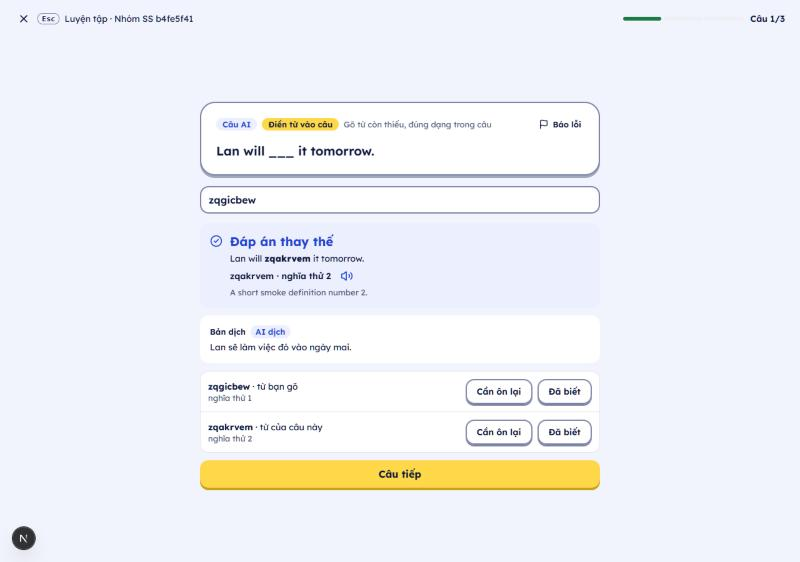
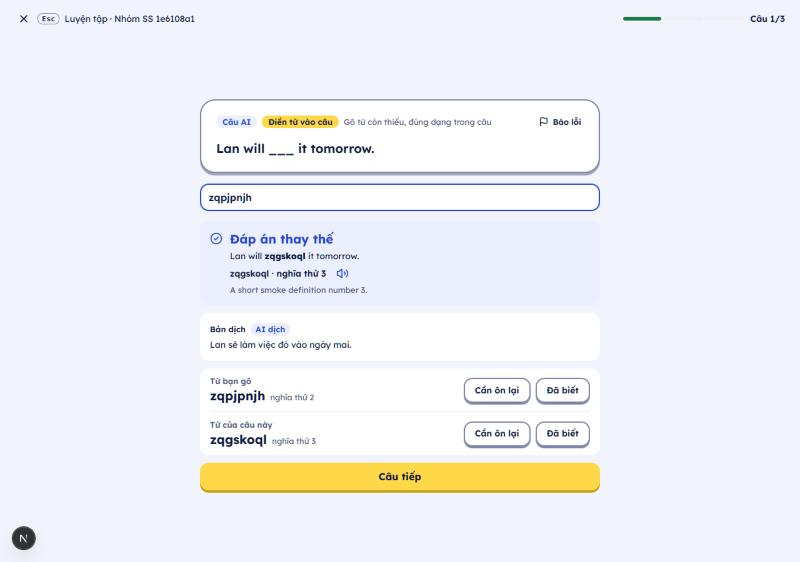
feat(web): drop the session-word line and polish the alternative card
A try-again for an undeclared session word now says only Chưa đúng (owner, 07/11/2026). Each row of the alternative card names its role as a label above the word and loses its border; the summary's alternatives count moves into the Đúng tile.

diff --git a/apps/web/src/features/learner/practice/session/ai-questions.test.tsx b/apps/web/src/features/learner/practice/session/ai-questions.test.tsx
@@ -160,11 +160,13 @@ describe('AI question types (K/78a–K/81)', () => {
       await userEvent.click(screen.getByRole('button', { name: /Kiểm tra/ }));
     };
 
-    it('CS3: a session-word try-again says it is another word from this session, not the spelling text', async () => {
+    it('CS3: a session-word try-again says only "Chưa đúng": no line under it, not the spelling text (owner, 07/11/2026)', async () => {
       await typeAndCheck({ result: 'try_again', tries: 1, reason: 'session_word' });
-      expect(await screen.findByText('Đây là một từ khác trong phiên này. Gõ lại.')).toBeInTheDocument();
+      // Once on the page and once in the live region for screen readers.
+      expect(await screen.findAllByText('Chưa đúng')).toHaveLength(2);
+      expect(screen.queryByText(/một từ khác trong phiên/)).not.toBeInTheDocument();
       expect(screen.queryByText(/Kiểm tra chính tả/)).not.toBeInTheDocument();
-      expect(document.querySelector('[data-live="result"]')).toHaveTextContent('Đây là một từ khác trong phiên này. Gõ lại.');
+      expect(document.querySelector('[data-live="result"]')).toHaveTextContent(/^Chưa đúng$/);
     });
 
     it('CS4: a try-again with reason null keeps the spelling text', async () => {
@@ -185,7 +187,9 @@ describe('AI question types (K/78a–K/81)', () => {
       await screen.findByText('We use Docker to ___ the app to the production server.');
       await userEvent.type(screen.getByRole('textbox'), 'habit');
       await userEvent.click(screen.getByRole('button', { name: /Check/ }));
-      expect(await screen.findByText("That's another word from this session. Try again.")).toBeInTheDocument();
+      expect(await screen.findAllByText('Not quite')).toHaveLength(2);
+      expect(screen.queryByText(/another word from this session/)).not.toBeInTheDocument();
+      expect(screen.queryByText(/Check the spelling/)).not.toBeInTheDocument();
     });
   });
 
@@ -281,8 +285,11 @@ describe('Alternative answer card', () => {
     expect(screen.getByText('Giấc ngủ rất quan trọng cho sức khỏe.')).toBeInTheDocument();
     const items = within(screen.getByRole('list')).getAllByRole('listitem');
     expect(items).toHaveLength(2);
-    expect(items[0]).toHaveTextContent('crucial · từ bạn gõ');
-    expect(items[1]).toHaveTextContent('vital · từ của câu này');
+    // Each row names its role as its own label above the word (UI polish, 07/11/2026).
+    expect(within(items[0]).getByText('Từ bạn gõ')).toBeInTheDocument();
+    expect(within(items[0]).getByText('crucial')).toBeInTheDocument();
+    expect(within(items[1]).getByText('Từ của câu này')).toBeInTheDocument();
+    expect(within(items[1]).getByText('vital')).toBeInTheDocument();
     expect(screen.getByRole('button', { name: 'Đã biết: crucial' })).toBeInTheDocument();
     expect(screen.getByRole('button', { name: 'Cần ôn lại: crucial' })).toBeInTheDocument();
     expect(screen.getByRole('button', { name: 'Cần ôn lại: vital' })).toBeInTheDocument();
@@ -374,8 +381,8 @@ describe('Alternative answer card', () => {
     await userEvent.click(screen.getByRole('button', { name: /Check/ }));
     expect(await screen.findByText('Alternative answer')).toBeInTheDocument();
     const items = within(screen.getByRole('list')).getAllByRole('listitem');
-    expect(items[0]).toHaveTextContent('crucial · the word you typed');
-    expect(items[1]).toHaveTextContent("vital · this sentence's word");
+    expect(within(items[0]).getByText('The word you typed')).toBeInTheDocument();
+    expect(within(items[1]).getByText("This sentence's word")).toBeInTheDocument();
     expect(screen.getByRole('button', { name: 'Know: crucial' })).toBeInTheDocument();
     expect(screen.getByRole('button', { name: 'Still learning: vital' })).toBeInTheDocument();
   });

diff --git a/apps/web/src/features/learner/practice/session/AlternativeFeedback.tsx b/apps/web/src/features/learner/practice/session/AlternativeFeedback.tsx
@@ -32,7 +32,7 @@ export function AlternativeFeedback({ result, sentence, onReviewWord, onNext, bu
         <CircleCheck aria-hidden className="mt-0.5 size-5 shrink-0 text-primary" />
         <div className="flex min-w-0 flex-col gap-1">
           <p className="text-title font-bold text-primary">{t('alternativeLabel')}</p>
-          <p className="break-words text-ui text-ink">
+          <p className="break-words text-pretty text-ui text-ink">
             {before}
             <strong className="font-extrabold">{result.correct.text}</strong>
             {after}
@@ -55,18 +55,19 @@ export function AlternativeFeedback({ result, sentence, onReviewWord, onNext, bu
           <p className="break-words text-ui text-ink">{result.translation}</p>
         </div>
       )}
-      <ul className="flex flex-col divide-y divide-border rounded-inner border border-border bg-surface">
+      {/* Same flat surface as the translation above: no border, so the card reads as one piece (UI polish, 07/11/2026). */}
+      <ul className="flex flex-col divide-y divide-border rounded-inner bg-surface px-4">
         {rows.map((row) => (
-          <li key={row.sense_id} className="flex flex-col gap-2 p-3 sm:flex-row sm:items-center sm:justify-between">
-            <div className="flex min-w-0 flex-col">
-              <p className="break-words text-ui text-ink">
-                <span className="font-bold">{row.lemma}</span>
-                {` · ${row.role === 'typed' ? t('alternativeTyped') : t('alternativeAsked')}`}
+          <li key={row.sense_id} className="flex flex-col gap-2 py-3 sm:flex-row sm:items-center sm:justify-between sm:gap-4">
+            <div className="flex min-w-0 flex-col gap-0.5">
+              <p className="text-caption font-semibold text-muted">{row.role === 'typed' ? t('alternativeTyped') : t('alternativeAsked')}</p>
+              <p className="flex min-w-0 flex-wrap items-baseline gap-x-2">
+                <span className="break-words text-title font-bold text-ink">{row.lemma}</span>
+                <span className="break-words text-caption text-muted">{row.meaning}</span>
               </p>
-              <p className="break-words text-caption text-muted">{row.meaning}</p>
             </div>
             {row.action === null ? (
-              <div className="flex flex-wrap gap-2">
+              <div className="flex shrink-0 flex-wrap gap-2">
                 <Button variant="quiet" aria-label={t('reviewWord', { lemma: row.lemma })} isDisabled={busy} onPress={() => onReviewWord(row.sense_id, 'needs_review')}>
                   {t('stillLearning')}
                 </Button>
@@ -77,7 +78,7 @@ export function AlternativeFeedback({ result, sentence, onReviewWord, onNext, bu
                 )}
               </div>
             ) : (
-              <p className="flex items-center gap-1 text-caption font-semibold text-ink">
+              <p className="flex shrink-0 items-center gap-1 text-caption font-semibold text-ink">
                 <Check aria-hidden className="size-4 text-success" />
                 {row.action === 'known' ? t('know') : t('summary.added')}
               </p>

diff --git a/apps/web/src/features/learner/practice/session/SessionSummary.tsx b/apps/web/src/features/learner/practice/session/SessionSummary.tsx
@@ -105,9 +105,11 @@ export function SessionSummary({ session, sourceLabel }: { session: PracticeSess
       </div>
       {data && (
         <dl className="grid grid-cols-2 gap-3">
-          <div className={`flex flex-col-reverse rounded-card bg-surface p-4 ${STAGGER[1]}`}>
-            <dt className="text-caption text-muted">{ts('correct')}</dt>
-            <dd className="text-h3 font-extrabold text-success">{data.correct}</dd>
+          <div className={`flex flex-col rounded-card bg-surface p-4 ${STAGGER[1]}`}>
+            <dt className="order-2 text-caption text-muted">{ts('correct')}</dt>
+            <dd className="order-1 text-h3 font-extrabold text-success">{data.correct}</dd>
+            {/* The alternatives belong to the right-answer count, so they sit in its tile (UI polish, 07/11/2026). */}
+            {(data.alternatives ?? 0) > 0 && <dd className="order-3 mt-1 text-caption font-semibold text-ink">{ts('alternatives', { count: data.alternatives ?? 0 })}</dd>}
           </div>
           <div className={`flex flex-col-reverse rounded-card bg-surface p-4 ${STAGGER[2]}`}>
             <dt className="text-caption text-muted">{ts('wrong')}</dt>
@@ -115,7 +117,6 @@ export function SessionSummary({ session, sourceLabel }: { session: PracticeSess
           </div>
         </dl>
       )}
-      {data && (data.alternatives ?? 0) > 0 && <p className="text-caption text-muted">{ts('alternatives', { count: data.alternatives ?? 0 })}</p>}
       {data && data.words.length > 0 && (
         <section className={`flex flex-col gap-2 rounded-card bg-surface p-4 ${STAGGER[3]}`}>
           <div className="flex flex-wrap items-center justify-between gap-2">

diff --git a/apps/web/src/features/learner/practice/session/PracticeSession.tsx b/apps/web/src/features/learner/practice/session/PracticeSession.tsx
@@ -249,7 +249,7 @@ function Question({ state, item, onReport }: { state: PracticeSessionState; item
   // One live region from the start of the question, so screen readers hear the result (audit 26/10/2026 #8).
   const announce = final
     ? `${final.result.alternative ? t('alternativeLabel') : final.result.result === 'correct' ? t('right') : t('wrong')}. ${t('revealLine', { lemma: final.result.correct.lemma, meaning: final.result.meaning })}`
-    : outcome?.kind === 'try_again' ? (outcome.reason === 'session_word' ? `${t('wrong')}. ${t('sessionWordBody')}` : t('wrong')) : '';
+    : outcome?.kind === 'try_again' ? t('wrong') : '';
 
   return (
     <div className="flex flex-col gap-4">
@@ -281,7 +281,8 @@ function Question({ state, item, onReport }: { state: PracticeSessionState; item
         <>
           <div data-feedback className="flex flex-col gap-0.5 rounded-inner bg-danger-soft p-4 motion-safe:animate-feedback-in">
             <p className="text-title font-bold text-danger">{t('wrong')}</p>
-            <p className="text-ui font-semibold text-ink">{outcome.reason === 'session_word' ? t('sessionWordBody') : t('tryAgainBody')}</p>
+            {/* A session word is spelt right: the spelling text would mislead, and the owner wants no line instead (07/11/2026). */}
+            {outcome.reason !== 'session_word' && <p className="text-ui font-semibold text-ink">{t('tryAgainBody')}</p>}
           </div>
           <TryAgainActions
             onRetry={focusAnswer}

diff --git a/apps/web/src/features/learner/practice/session/practice-session.test.tsx b/apps/web/src/features/learner/practice/session/practice-session.test.tsx
@@ -691,7 +691,10 @@ describe('Summary of alternative answers', () => {
 
   it('CS9: the summary says how many right answers were alternative answers', async () => {
     await openSummary({ alternatives: 2 });
-    expect(await screen.findByText('Trong đó 2 đáp án thay thế')).toBeInTheDocument();
+    const line = await screen.findByText('Trong đó 2 đáp án thay thế');
+    // The line belongs to the right-answer count: it sits in the "Đúng" tile, not loose under both tiles (UI polish, 07/11/2026).
+    const right = screen.getAllByRole('term').find((term) => term.textContent === 'Đúng')!;
+    expect(right.parentElement).toContainElement(line);
   });
 
   it('CS9: nothing is said when there was none, or when an older API sends no count', async () => {

diff --git a/docs/superpowers/specs/2026-11-06-cloze-session-synonyms-design.md b/docs/superpowers/specs/2026-11-06-cloze-session-synonyms-design.md
@@ -68,7 +68,7 @@ the older `{ first_letter, length }` shape (`LegacyLetters` in `HintPanel.tsx`) 
 |---|---|---|
 | `vital` | Right | Today's "Right" screen, unchanged. |
 | `crucial` (in her session, declared) | **Alternative answer** | See 3.2. |
-| `habit` (in her session, not declared) | Try again | New message: "That's another word from this session. Try again." |
+| `habit` (in her session, not declared) | Try again | ~~New message: "That's another word from this session. Try again."~~ Only "Not quite", with no line under it (owner, 07/11/2026, after the build). |
 | `important` (not in her session) | Try again | Unchanged: "Not quite. Check the spelling and try again. The answer stays hidden." |
 
 **Order of matching a typed answer** (Practice, at grading):
@@ -407,7 +407,7 @@ with `accepted_answers: [vital]` and `also_accepted: [crucial]`.
 |---|---|---|
 | CS1 | When Lan types `vital` into the `vital` sentence, then she gets Right and today's card. | §3.1 |
 | CS2 | When Lan types `crucial` into the `vital` sentence, then she gets the "Alternative answer" card with a `crucial` row and a `vital` row, `crucial` gets a right answer in its stats and `vital` gets nothing. | D3–D6, §4.1 |
-| CS3 | When Lan types `habit` into the `vital` sentence, then she gets a try-again with "That's another word from this session. Try again." and no word gets credit. | D14 |
+| CS3 | When Lan types `habit` into the `vital` sentence, then she gets a try-again that says only "Not quite" (no spelling line; owner, 07/11/2026, replaced "That's another word from this session. Try again.") and no word gets credit. | D14 |
 | CS4 | When Lan types `important` into the `vital` sentence, then she gets today's "Not quite. Check the spelling and try again." | D1, D10 |
 | CS5 | When Lan presses Enter, `1` or `2` on the alternative card, then nothing changes and the card stays. | D7, R1 |
 | CS6 | When Lan presses Know in the `crucial` row, then only `crucial`'s schedule changes and the `vital` row's buttons stay available. | D6 |

diff --git a/docs/deliveries/session-synonyms.md b/docs/deliveries/session-synonyms.md
@@ -112,6 +112,15 @@ the design as written (§5.5, D13).
 - The learner web in dark mode, on a phone and in English; with a screen reader; or a web build from before this change against the new API.
 - A group deleted during a session, and the weak-word stats credit, have no smoke step.
 
+## Changed after the build (owner, 07/11/2026)
+
+- A try-again for an undeclared session word says only "Chưa đúng" / "Not quite": the line "Đây là một từ khác trong phiên này. Gõ lại." is gone (owner,
+  after seeing it). An ordinary try-again keeps its spelling line; a session word gets none, since it is spelt right. Design §3.1 and CS3 are updated.
+- UI polish with the redesign skill, on the screens this work built: each row of the alternative card names its role as a small label above the word
+  ("Từ bạn gõ", "Từ của câu này"), the word is larger and its meaning sits beside it; the rows lose their border, like the translation block above
+  them; the summary's "Trong đó N đáp án thay thế" moves into the "Đúng" tile, under the count it belongs to. Screenshots replaced in
+  [`session-synonyms-screens/`](session-synonyms-screens/).
+
 ## The owner's steps, in order
 
 1. Check the live fill-in prompt. After the next deploy of the API, open Admin → AI → Prompts → `generate_cloze`: the text should start "You write one English practice sentence…" and mention
